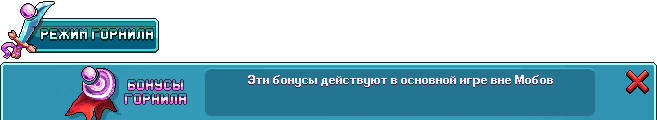
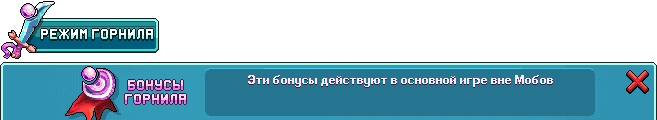
Glyph fixes: y tail under tasty treat erased, green '!' with a pixel of air after 'always', crucible captions take their lightest colour on top

Changed region(s): [[0.0609, 0.225, 0.2435, 0.3], [0.1826, 0.775, 0.3044, 0.85], [0.1826, 0.65, 0.274, 0.725]]

diff --git a/tools/retext.py b/tools/retext.py
@@ -904,13 +904,13 @@ def draw_runs(img, src, p):
                 if p.get('px', 1) > 1:
                     im = im.resize((im.width * p['px'], im.height * p['px']), Image.NEAREST)
                 im = two_tone(im, hexcol(r.get('fill', p.get('fill', '#ffffff'))), outl) if im.width else im
-                pieces.append((im, (lead, trail, r.get('uline'), hexcol(r.get('fill', p.get('fill', '#ffffff'))))))
+                pieces.append((im, (lead, trail, r.get('uline'), hexcol(r.get('fill', p.get('fill', '#ffffff'))), r.get('dx', 0))))
             boxes = [im.getbbox() for im, sp in pieces if sp != 'icon' and im.width and im.getbbox()]
             if boxes:   # one vertical crop for the whole line keeps the baseline
                 t0, t1 = min(b[1] for b in boxes), max(b[3] for b in boxes)
                 pieces = [(im.crop((0, t0, im.width, t1)) if sp != 'icon' and im.width else im, sp)
                           for im, sp in pieces]
-            w = sum(im.width + (space * (sp[0] + sp[1]) if sp != 'icon' else 1) for im, sp in pieces)
+            w = sum(im.width + (space * (sp[0] + sp[1]) + sp[4] if sp != 'icon' else 1) for im, sp in pieces)
             out.append((pieces, w))
         return out
 
@@ -931,7 +931,7 @@ def draw_runs(img, src, p):
                 img.alpha_composite(im, (x, y + (h - im.height) // 2))
                 x += im.width + 1
                 continue
-            x += space * sp[0]
+            x += space * sp[0] + sp[4]   # dx: a pixel or two of air before a piece
             if im.width:
                 img.alpha_composite(im, (x, y + (h - im.height) // 2))
                 if sp[2]:   # an underlined piece ("all the time"), in its own colour
